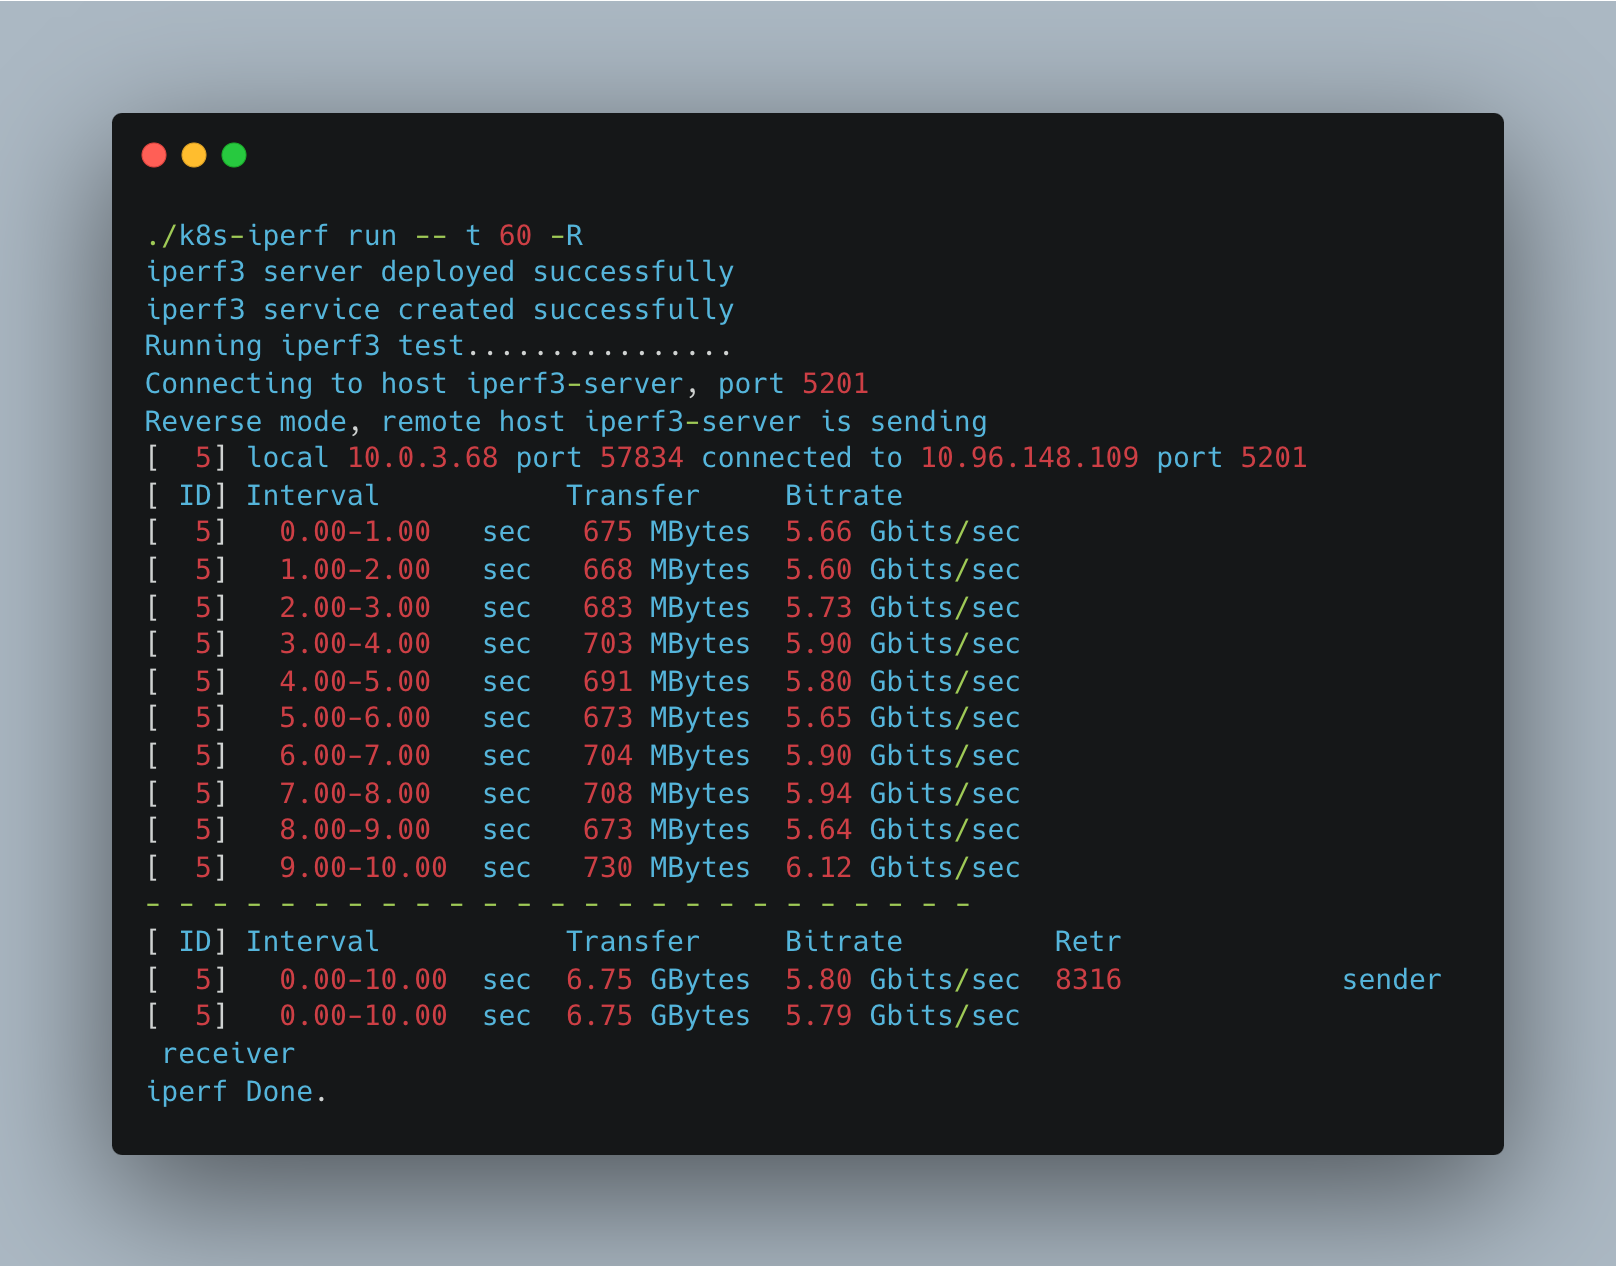
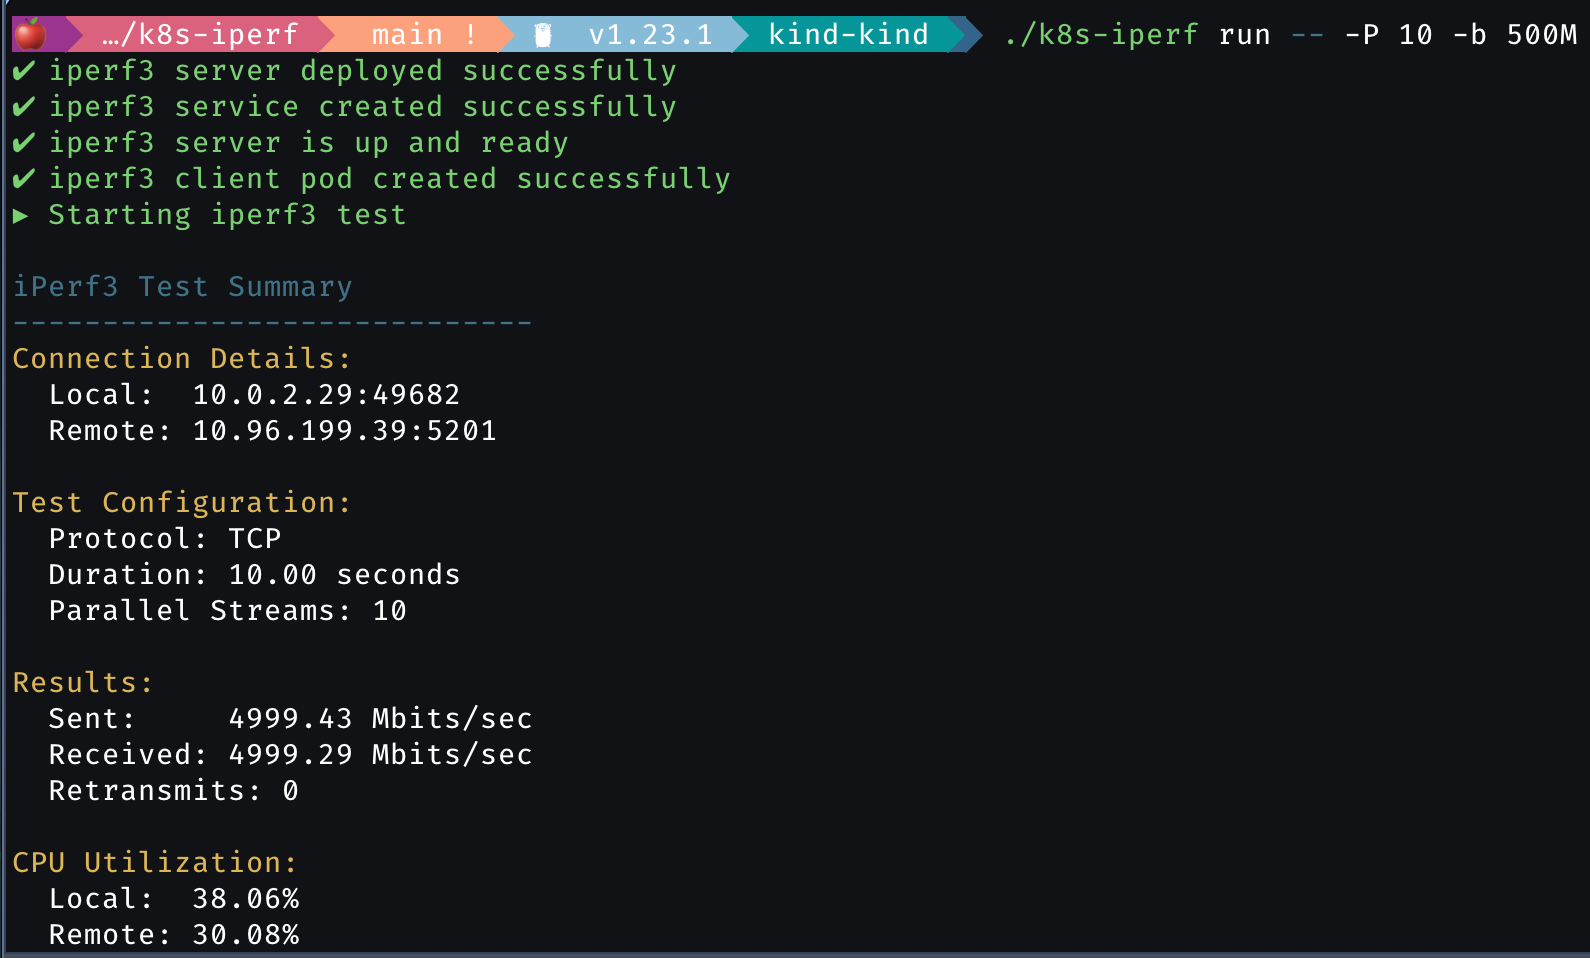
simplify output

diff --git a/pkg/iperf/test.go b/pkg/iperf/test.go
@@ -6,6 +6,7 @@ import (
 	"fmt"
 	"os"
 	"os/signal"
+	"strings"
 	"syscall"
 	"time"
 
@@ -15,19 +16,34 @@ import (
 	"k8s.io/apimachinery/pkg/util/intstr"
 	"k8s.io/apimachinery/pkg/util/wait"
 	"k8s.io/client-go/kubernetes"
+
+	"encoding/json"
+
+	"github.com/fatih/color"
 )
 
 // At the package level, add this static error:
 var errIperf3ClientPodFailed = errors.New("iperf3 client pod failed")
 
+// Add static error variables
+var (
+	errEmptyLogs             = errors.New("iperf3 client returned empty logs")
+	errMissingStartField     = errors.New("missing or invalid 'start' field in JSON data")
+	errMissingEndField       = errors.New("missing or invalid 'end' field in JSON data")
+	errMissingConnectedField = errors.New("missing or invalid 'connected' field in JSON data")
+	errInvalidConnectedData  = errors.New("invalid 'connected' data structure in JSON data")
+)
+
 // TestConfig holds the configuration for the iperf3 test
 type TestConfig struct {
 	Client     *kubernetes.Clientset
 	Namespace  string
+	Domain     string
 	Image      string
 	IperfArgs  []string
 	ServerNode string
 	ClientNode string
+	Cleanup    bool
 }
 
 func RunTest(config TestConfig) error {
@@ -58,33 +74,47 @@ func RunTest(config TestConfig) error {
 }
 
 func runTestInternal(ctx context.Context, config TestConfig) error {
+	// Defer cleanup if Cleanup is set to true
+	if config.Cleanup {
+		defer func() {
+			if err := cleanup(config.Client, config.Namespace); err != nil {
+				fmt.Printf("Failed to cleanup resources: %v\n", err)
+			}
+		}()
+	}
+
 	// Deploy iperf3 server
 	if err := deployIperf3Server(config); err != nil {
+		color.Red("✘ Failed to deploy iperf3 server: %v", err)
 		return fmt.Errorf("failed to deploy iperf3 server: %w", err)
 	}
-	fmt.Println("iperf3 server deployed successfully")
+	color.Green("✔ iperf3 server deployed successfully")
 
 	// Create service for iperf3 server
 	if err := createIperf3Service(config.Client, config.Namespace); err != nil {
+		color.Red("✘ Failed to create iperf3 service: %v", err)
 		return fmt.Errorf("failed to create iperf3 service: %w", err)
 	}
-	fmt.Println("iperf3 service created successfully")
+	color.Green("✔ iperf3 service created successfully")
 
 	// Wait for server to be ready
 	if err := waitForDeploymentReady(config.Client, config.Namespace, "iperf3-server", 60*time.Second); err != nil {
+		color.Red("✘ iperf3 server failed to become ready: %v", err)
 		return fmt.Errorf("iperf3 server failed to become ready: %w", err)
 	}
 
-	// Run iperf3 client
-	fmt.Println("Running iperf3 test................")
-	err := runIperf3Client(ctx, config)
-	if err != nil {
-		return fmt.Errorf("iperf3 client test failed: %w", err)
+	// Add this: Wait for the iperf3 server pod to be ready
+	if err := waitForPodReady(ctx, config.Client, config.Namespace, "app=iperf3-server", 60*time.Second); err != nil {
+		color.Red("✘ iperf3 server pod failed to become ready: %v", err)
+		return fmt.Errorf("iperf3 server pod failed to become ready: %w", err)
 	}
 
-	// Cleanup resources
-	if err := cleanup(config.Client, config.Namespace); err != nil {
-		return fmt.Errorf("failed to cleanup resources: %w", err)
+	color.Green("✔ iperf3 server is up and ready")
+
+	err := runIperf3Client(ctx, config)
+	if err != nil {
+		color.Red("✘ iperf3 client test failed: %v", err)
+		return fmt.Errorf("iperf3 client test failed: %w", err)
 	}
 
 	return nil
@@ -132,6 +162,15 @@ func deployIperf3Server(config TestConfig) error {
 								ReadOnlyRootFilesystem: boolPtr(false),
 							},
 							ImagePullPolicy: corev1.PullAlways,
+							StartupProbe: &corev1.Probe{
+								Handler: corev1.Handler{
+									TCPSocket: &corev1.TCPSocketAction{
+										Port: intstr.FromInt(5201),
+									},
+								},
+								InitialDelaySeconds: 5,
+								FailureThreshold:    1,
+							},
 						},
 					},
 				},
@@ -176,7 +215,8 @@ func createIperf3Service(client *kubernetes.Clientset, namespace string) error {
 }
 
 func runIperf3Client(ctx context.Context, config TestConfig) error {
-	args := []string{"-c", "iperf3-server"}
+	serverFQDN := fmt.Sprintf("iperf3-server.%s.svc.%s", config.Namespace, config.Domain)
+	args := []string{"-c", serverFQDN, "-J"}
 	args = append(args, config.IperfArgs...)
 
 	pod := &corev1.Pod{
@@ -220,6 +260,10 @@ func runIperf3Client(ctx context.Context, config TestConfig) error {
 		return err
 	}
 
+	color.Green("✔ iperf3 client pod created successfully")
+
+	color.Green("► Starting iperf3 test")
+
 	// Wait for the client pod to complete
 	var podPhase corev1.PodPhase
 	for {
@@ -248,10 +292,112 @@ PodCompleted:
 		return err
 	}
 
-	fmt.Println(string(logs))
+	// Check if logs are empty
+	if len(logs) == 0 {
+		color.Red("✘ iperf3 client returned empty logs")
+		return errEmptyLogs
+	}
+
+	// Parse and print the formatted summary
+	if err := printIperfSummary(logs); err != nil {
+		color.Red("✘ Failed to parse iperf output: %v", err)
+		return fmt.Errorf("failed to parse iperf output: %w", err)
+	}
 
 	if podPhase == corev1.PodFailed {
-		return fmt.Errorf("iperf3 client execution: %w", errIperf3ClientPodFailed)
+		return errIperf3ClientPodFailed
+	}
+
+	return nil
+}
+
+func printIperfSummary(jsonData []byte) error {
+	var result map[string]interface{}
+	if err := json.Unmarshal(jsonData, &result); err != nil {
+		return fmt.Errorf("failed to unmarshal JSON data: %w", err)
+	}
+
+	// Check if the required fields exist
+	start, ok := result["start"].(map[string]interface{})
+	if !ok {
+		return errMissingStartField
+	}
+
+	end, ok := result["end"].(map[string]interface{})
+	if !ok {
+		return errMissingEndField
+	}
+
+	connected, ok := start["connected"].([]interface{})
+	if !ok || len(connected) == 0 {
+		return errMissingConnectedField
+	}
+
+	connectedMap, ok := connected[0].(map[string]interface{})
+	if !ok {
+		return errInvalidConnectedData
+	}
+
+	// Extract relevant information
+	testStart := start["test_start"].(map[string]interface{})
+	sumSent := end["sum_sent"].(map[string]interface{})
+	sumReceived := end["sum_received"].(map[string]interface{})
+
+	// Print summary
+	fmt.Println() // Add a line break here
+	summaryTitle := "iPerf3 Test Summary"
+	color.Cyan(summaryTitle)
+
+	cpuUtil := end["cpu_utilization_percent"].(map[string]interface{})
+
+	// Prepare all lines
+	lines := []string{
+		fmt.Sprintf("Connection Details:"),
+		fmt.Sprintf("  Local:  %s:%d", connectedMap["local_host"], int(connectedMap["local_port"].(float64))),
+		fmt.Sprintf("  Remote: %s:%d", connectedMap["remote_host"], int(connectedMap["remote_port"].(float64))),
+		fmt.Sprintf(""),
+		fmt.Sprintf("Test Configuration:"),
+		fmt.Sprintf("  Protocol: %s", testStart["protocol"]),
+		fmt.Sprintf("  Duration: %.2f seconds", sumSent["seconds"]),
+		fmt.Sprintf("  Parallel Streams: %d", int(testStart["num_streams"].(float64))),
+		fmt.Sprintf(""),
+		fmt.Sprintf("Results:"),
+		fmt.Sprintf("  Sent:     %.2f Mbits/sec", sumSent["bits_per_second"].(float64)/1e6),
+		fmt.Sprintf("  Received: %.2f Mbits/sec", sumReceived["bits_per_second"].(float64)/1e6),
+	}
+
+	if retransmits, ok := sumSent["retransmits"]; ok {
+		lines = append(lines, fmt.Sprintf("  Retransmits: %d", int(retransmits.(float64))))
+	}
+
+	lines = append(lines,
+		fmt.Sprintf(""),
+		fmt.Sprintf("CPU Utilization:"),
+		fmt.Sprintf("  Local:  %.2f%%", cpuUtil["host_total"].(float64)),
+		fmt.Sprintf("  Remote: %.2f%%", cpuUtil["remote_total"].(float64)),
+	)
+
+	// Calculate the length of the longest line
+	maxLength := len(summaryTitle)
+	for _, line := range lines {
+		if len(line) > maxLength {
+			maxLength = len(line)
+		}
+	}
+
+	// Print dashes
+	color.Cyan(strings.Repeat("-", maxLength))
+
+	// Print all lines
+	for _, line := range lines {
+		if strings.HasPrefix(line, "Connection Details:") ||
+			strings.HasPrefix(line, "Test Configuration:") ||
+			strings.HasPrefix(line, "Results:") ||
+			strings.HasPrefix(line, "CPU Utilization:") {
+			color.Yellow(line)
+		} else {
+			fmt.Println(line)
+		}
 	}
 
 	return nil
@@ -289,5 +435,31 @@ func waitForDeploymentReady(client *kubernetes.Clientset, namespace, deploymentN
 		}
 
 		return deployment.Status.ReadyReplicas == *deployment.Spec.Replicas, nil
+	})
+}
+
+// Add this new function
+func waitForPodReady(ctx context.Context, client *kubernetes.Clientset, namespace, labelSelector string, timeout time.Duration) error {
+	return wait.PollImmediate(time.Second, timeout, func() (bool, error) {
+		pods, err := client.CoreV1().Pods(namespace).List(ctx, metav1.ListOptions{LabelSelector: labelSelector})
+		if err != nil {
+			return false, err
+		}
+
+		if len(pods.Items) == 0 {
+			return false, nil
+		}
+
+		for _, pod := range pods.Items {
+			if pod.Status.Phase == corev1.PodRunning {
+				for _, condition := range pod.Status.Conditions {
+					if condition.Type == corev1.PodReady && condition.Status == corev1.ConditionTrue {
+						return true, nil
+					}
+				}
+			}
+		}
+
+		return false, nil
 	})
 }

diff --git a/pkg/cli/commands.go b/pkg/cli/commands.go
@@ -23,6 +23,9 @@ var runCmd = &cobra.Command{
 		image, _ := cmd.Flags().GetString("k8s-image")
 		serverNode, _ := cmd.Flags().GetString("k8s-server-node")
 		clientNode, _ := cmd.Flags().GetString("k8s-client-node")
+		domain, _ := cmd.Flags().GetString("k8s-domain")
+		cleanup, _ := cmd.Flags().GetBool("k8s-cleanup")
+
 		client, err := k8s.NewClient()
 		if err != nil {
 			return fmt.Errorf("failed to create Kubernetes client: %w", err)
@@ -41,6 +44,8 @@ var runCmd = &cobra.Command{
 			IperfArgs:  iperfArgs,
 			ServerNode: serverNode,
 			ClientNode: clientNode,
+			Domain:     domain,
+			Cleanup:    cleanup,
 		}
 
 		return iperf.RunTest(config)
@@ -52,6 +57,8 @@ func init() {
 	runCmd.Flags().StringP("k8s-image", "", "dariomader/iperf3:latest", "Docker image to use for the test")
 	runCmd.Flags().StringP("k8s-server-node", "", "", "Server node to use for the test")
 	runCmd.Flags().StringP("k8s-client-node", "", "", "Client node to use for the test")
+	runCmd.Flags().StringP("k8s-domain", "", "cluster.local", "Kubernetes domain to use for the test")
+	runCmd.Flags().BoolP("k8s-cleanup", "", true, "Cleanup resources after the test")
 	rootCmd.AddCommand(runCmd)
 }
 
